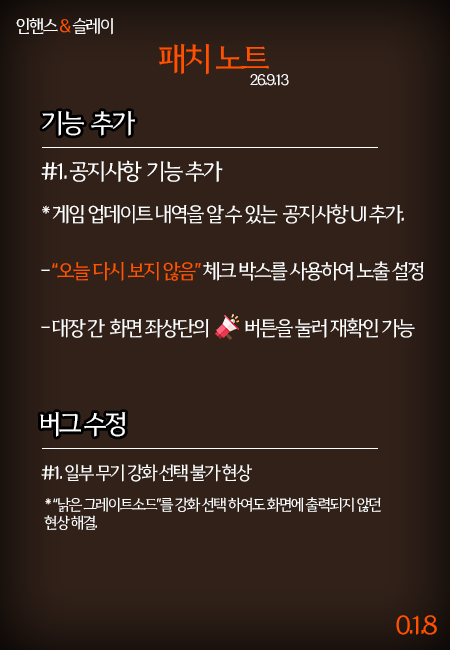
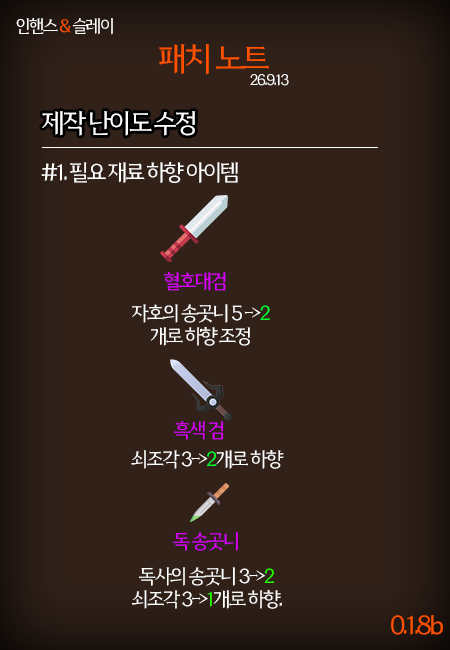
p45
- 일부 제작 아이템 제작에 필요한 재료 개수 하향

- 11스테이지 보상 상자에서 쇠조각 획득 확률 증가

diff --git a/js/data.js b/js/data.js
@@ -2032,8 +2032,8 @@ CRAFTABLE_ITEMS.weapon.push(
     iconType: 'weapon', iconRef: 'poisonfang',
     successChance: 60, craftCost: 4000,
     materials: [
-      { name: '독사의 송곳니', need: 3 },
-      { name: '쇠조각', need: 3 },
+      { name: '독사의 송곳니', need: 2 },
+      { name: '쇠조각', need: 1 },
       { name: '마석 파편', need: 3 },
     ],
     failReturns: [
@@ -2047,7 +2047,7 @@ CRAFTABLE_ITEMS.weapon.push(
     successChance: 40, craftCost: 8000,
     materials: [
       { name: '흑철', need: 3 },
-      { name: '쇠조각', need: 3 },
+      { name: '쇠조각', need: 2 },
       { name: '마석 조각', need: 3 },
     ],
     failReturns: [
@@ -2077,13 +2077,13 @@ CRAFTABLE_ITEMS.weapon.push(
     iconType: 'weapon', iconRef: 'bloodtigerlongsword',
     successChance: 35, craftCost: 18000,
     materials: [
-      { name: '자호의 송곳니', need: 5 },
+      { name: '자호의 송곳니', need: 2 },
       { name: '흑철', need: 5 },
       { name: '쇠조각', need: 6 },
       { name: '마석 조각', need: 8 },
     ],
     failReturns: [
-      { name: '자호의 송곳니', need: 2, chance: 30 },
+      { name: '자호의 송곳니', need: 1, chance: 30 },
       { name: '흑철', need: 2, chance: 30 },
       { none: true, chance: 20 },
     ],
@@ -2734,10 +2734,10 @@ const FLASK_TIER_RULES = [
 // 추첨 대상에서 제외됨(rollTreasureMiscDrop이 처리).
 const TREASURE_MISC_DROP_TABLE = [
   { itemId: 'rareScrapmetal', tiers: [ // 쇠조각
-    { minLevel: 1,  maxLevel: 29, chance: 10, qtyOptions: [1] },
-    { minLevel: 30, maxLevel: 49, chance: 12, qtyOptions: [1] },
-    { minLevel: 50, maxLevel: 89, chance: 15, qtyOptions: [1] },
-    { minLevel: 90, maxLevel: 99, chance: 20, qtyOptions: [1, 2] },
+    { minLevel: 1,  maxLevel: 29, chance: 35, qtyOptions: [1] },
+    { minLevel: 30, maxLevel: 49, chance: 40, qtyOptions: [1] },
+    { minLevel: 50, maxLevel: 89, chance: 50, qtyOptions: [1] },
+    { minLevel: 90, maxLevel: 99, chance: 60, qtyOptions: [1, 2] },
   ]},
   { itemId: 'epicShinystone', tiers: [ // 반짝이는 돌 (1~29구간은 chance 0 → 추첨 대상 제외)
     { minLevel: 1,  maxLevel: 29, chance: 0,  qtyOptions: [1] },
